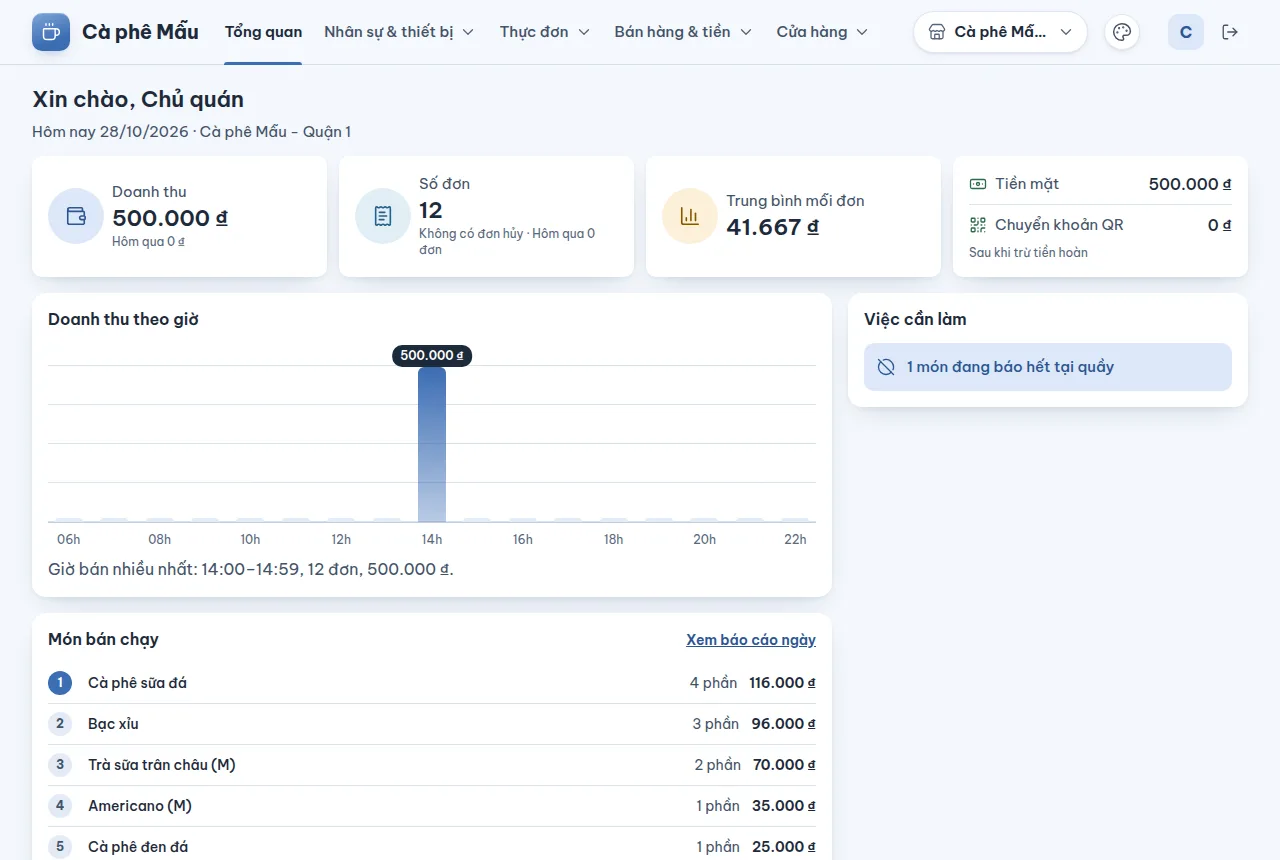
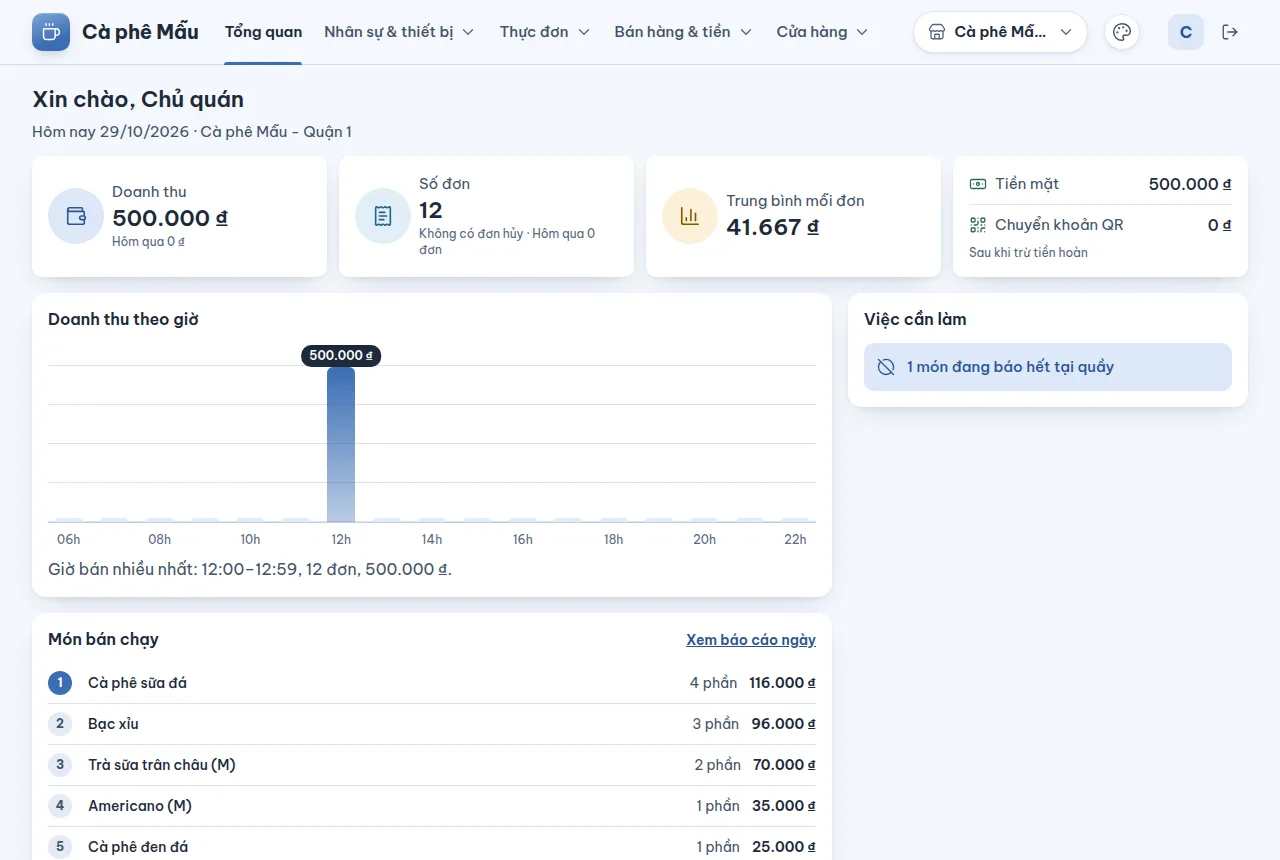
docs: retake handbook shots and hand off the backoffice screens wave

diff --git a/docs/tasks-r1-detailed-task-board.md b/docs/tasks-r1-detailed-task-board.md
@@ -6,6 +6,8 @@
 
 ## Bàn giao phiên trước
 
+- 2026-10-29 12:30 — **Chốt ngày theo lời chủ dự án (đợt 3 xong thì dừng).** **Đợt 3** (1 agent, 0,49M token, merge `729a459`): trang quản lý có **Bảng giá** (danh sách + sửa quy tắc giảm % / giá cố định theo phạm vi, chi nhánh, kênh, ngày, giờ; máy chủ thêm danh sách + xóa, D-117), **Trạm pha chế** (thêm / đổi tên / xóa trạm chưa có món và chưa in phiếu, D-118), **Mẫu loại quán** (`packages/shop-templates`, 5 mẫu, xem trước rồi áp, chỉ thêm cái còn thiếu, công tắc người dùng đã chọn giữ nguyên, D-119), **bán lại món đã ngừng** (`POST /catalog/products/:id/unarchive`, nút "Bán lại món", dòng B5 bỏ khỏi `discrepancies.md`, D-120), quán mẫu `pnpm dev:stack` có "Combo đôi" (16 món, D-121). Màn máy in (T04-14) **dời** tới lúc có vỏ Windows + máy in thật. Ảnh sổ tay chụp lại toàn bộ (thêm `bang-gia`, `bang-gia-sua`, `tram-pha-che`, `mau-loai-quan`). Cổng trên bản merge: unit 3.097 · `test:api` 1.789 · `test:sync` 22 · `test:browser` 194 · build — xanh (`pnpm test:ops` chưa chạy, cần pg_dump ≥ 17). **Biết trước:** công tắc mẫu áp `pay_first_counter`, `kitchen_routing`, `course_firing`, `cup_labels` chỉ được lưu, máy quầy chưa đọc (cùng gốc với B1/Q13 — đợt 6); món thuộc cả thương hiệu nhưng trạm thuộc một chi nhánh ⇒ ở chi nhánh khác món đó không ra phiếu (có từ trước, ghi ở trang sổ tay 15); trạm đã từng in phiếu chỉ đổi tên được, không xóa; quy tắc có kênh không áp ở quầy; ô chọn món của bảng giá chưa có tìm kiếm; ngày của bảng giá tính theo UTC+7 cố định. **Phiên sau bắt đầu ở đợt 4** (vận hành: thu lỗi từ máy quầy / trang quản lý, cập nhật app quầy, pipeline deploy — không deploy thật), rồi đợt 5 → 6 như dòng 2026-10-28 12:05. Không còn worktree; dev stack đang tắt.
+
 - 2026-10-28 14:30 — **Chốt ngày theo lời chủ dự án (hôm sau làm tiếp từ đợt 3).** **Đợt 2 combo** xong (1 agent, 0,49M token, merge `87ba93f`): trang quản lý tạo/sửa combo (phần combo, món + size + phụ thu, lỗi đặt đúng chỗ, xem trước); `save_draft` mang `comboPicks`, máy chủ tính giá bằng `domain` (`resolveComboPicks`) và lưu cây dòng combo → món → tùy chọn, chặn món hết/đã ngừng; máy quầy bán combo bằng màn chọn combo, phiếu bếp chia từng món theo trạm, bill thụt tùy chọn (D-113…D-116, D-048 bị thay một phần). Ảnh sổ tay chụp lại toàn bộ + ảnh mới màn chọn combo (combo mẫu "Combo đôi" chỉ có trong bộ chụp ảnh). Cổng sau merge: unit 3.016 · `test:api` 1.752 · `test:sync` 22 · `test:browser` 188 · build — xanh; CI xanh tới `4b82bc8`. Hôm nay tổng ~1,6M token agent (đợt 1: 1,14M, đợt 2: 0,49M). **Biết trước:** combo in lỗi ở một trạm thì lần gửi sau in lại ở MỌI trạm (chấp nhận trùng phiếu hơn mất món, D-114); hủy/hoàn chỉ cả combo (D-115); ô Danh mục / Trạm trong trình sửa món vẫn là ô chọn kiểu hệ điều hành (nằm trong 8 ô của đợt 5); quán mẫu `pnpm dev:stack` chưa có combo nào để bấm thử. **Phiên sau bắt đầu ở đợt 3** (1 agent ~500k): thêm combo vào quán mẫu dev stack; màn bảng giá (T03-06), màn trạm pha chế (T03-07), màn máy in + gán trạm (T04-14), mẫu cài đặt theo loại quán (T03-10), bán lại món đã ngừng (`discrepancies.md` B5). Sau đó đợt 4 → 6 như dòng 12:05. Không còn worktree; dev stack đang tắt.
 
 - 2026-10-28 12:05 — Chủ dự án: "fix và làm nốt phase". **CI** đỏ 1 lần ở `d85ff40` (test trình sửa món, không tái hiện được) ⇒ test đọc lại ô sau khi lưu (`5aa6cc6`), CI xanh lại. **Bảng task** ghi đủ trạng thái từng task (`a14eca9`). **Đợt 1** (2 agent, 1,14M token — gấp đôi mức ~500k, từ đợt 2 chỉ 1 agent, cổng đủ chạy 1 lần cuối): hoàn tiền phải thuộc ca, duyệt chuyển bàn gắn đơn, thối QR thừa vượt ngưỡng xin quản lý tại máy, lý do "Khác" bắt buộc ghi chú (migration 0035), ngày dd/mm/yyyy (D-108…D-112); bán món giá nhập tay (duyệt gắn dòng + đúng giá) và theo cân kg / 100 g nhập gam (migration 0036, D-105…D-107). Dọn 21/26 chỗ lệch ở `handbook/discrepancies.md` (feature-map, logic-catalog, 3 dòng quyết định đã bị thay; trạng thái hóa đơn bằng chữ ở Chốt ngày, câu báo giới hạn tần suất ở trang quản lý, chữ "0,01–100" ở ô giảm giá) + test cho số đơn/số gọi và ô gõ mức giảm. Chụp lại toàn bộ ảnh sổ tay sau gộp (từ nay sau MỖI lần gộp). Cổng: unit 2.952 · `test:api` 1.737 · `test:sync` 22 · `test:browser` 185 · build — xanh. **Kế hoạch còn lại** (mỗi đợt 1 agent ~500k): 2 combo (đang chạy, `../worktrees/combo`) → 3 màn bảng giá + trạm + máy in + mẫu loại quán + bán lại món đã ngừng → 4 vận hành (thu lỗi máy khách, cập nhật app quầy, pipeline deploy — không deploy thật) → 5 vẽ lại mở/đóng ca, PIN, chọn nhân viên, ghép máy, ngăn kéo thanh toán, 8 ô chọn, hiệu ứng đóng → 6 D-097 khóa món đã gửi bếp bản web, D-096 công tắc trung thực, D-083, D-095 mã hàng, D-082, "Cần xử lý" từng lệnh. Chờ chủ dự án: vỏ Windows/Android + máy in thật, sandbox HĐĐT, kế toán, quán thí điểm, deploy thật.
@@ -342,7 +344,7 @@
 
 ### T04-14 Backoffice: máy in + gán trạm → máy in
 - **Test:** `e2e/backoffice/assign-station-printer.spec.ts`.
-- **Trạng thái:** todo.
+- **Trạng thái:** todo — dời tới lúc có vỏ Windows + máy in thật (2026-10-29): chưa có bảng máy in, chưa có route, máy quầy in theo một cấu hình cố định (`apps/pos/src/features/printing/printer-profiles.ts`); làm trước khi có máy thật thì phải đoán cấu hình (khổ giấy, trang mã, cách nối) và dễ làm lại.
 
 ### T04-15 Hàng đợi in + in lại + báo lỗi
 - **Test:** `apps/pos/src/features/printing/print-queue-retries-and-surfaces-failures.test.ts` — máy in tắt: job `failed`, hiện cảnh báo, bật lại in được, không mất phiếu.
